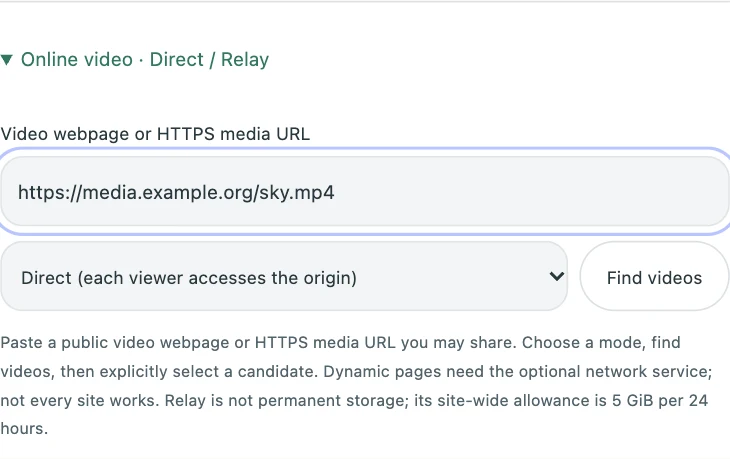
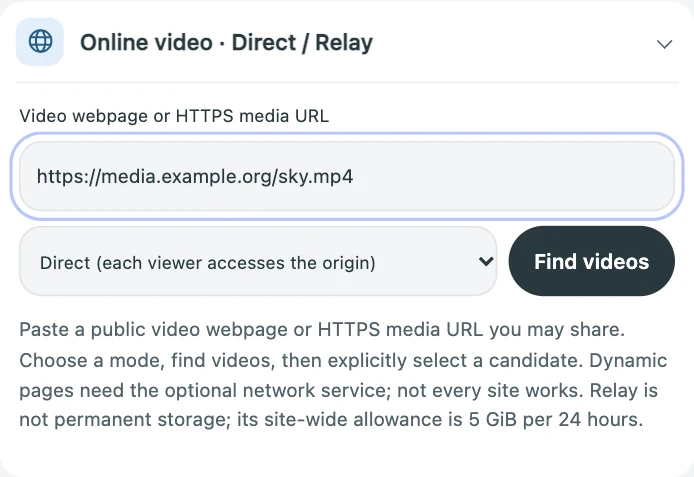
Refresh bilingual Pages screenshots for library tools, upload ETA and voice

diff --git a/docs/site/site.css b/docs/site/site.css
@@ -115,3 +115,12 @@ footer {background:white;text-align:center}footer nav {margin:1.2rem 0 2rem}foot
   .reading aside {max-height:none}
   .chapters section,.reading aside {scroll-margin-top:7rem}
 }
+
+/* Two real UI close-ups belong to the library chapter, not a separate step. */
+.tool-shots {grid-column:1/-1;display:grid;grid-template-columns:repeat(2,minmax(0,1fr));gap:1rem}
+.tool-shots figure {min-width:0;display:flex;flex-direction:column;align-items:start;padding:clamp(1rem,2.8vw,2rem);gap:1rem;background:var(--silver);border-radius:1.5rem}
+.tool-shots strong {font-size:1.15rem;color:var(--ink)}
+.tool-shots p {margin-top:.35rem;color:var(--muted)}
+.tool-shots a {display:block;width:100%;margin-top:auto}
+.tool-shots img {width:100%;height:auto;border:1px solid var(--line);border-radius:.9rem}
+@media(max-width:740px){.tool-shots {grid-template-columns:minmax(0,1fr)}}

diff --git a/scripts/capture_site_shots.py b/scripts/capture_site_shots.py
@@ -1,0 +1,85 @@
+"""Rephotograph Pages in an isolated demo: python -m scripts.capture_site_shots.
+
+Requires ffmpeg, cwebp, Chrome, Playwright and the application's Python deps.
+"""
+import asyncio
+from pathlib import Path
+import re
+import struct
+import subprocess
+import tempfile
+
+from aiohttp.test_utils import TestServer
+from playwright.async_api import async_playwright, expect
+
+from cinema.server import create_app
+
+
+OUT = Path(__file__).resolve().parents[1] / 'docs/site/shots'
+
+
+async def capture(browser, lang, root):
+    media = root / 'data'
+    app = create_app(media, 'local-shots-only', secure=False)
+    for title, color in [('Cloud Atlas', 'skyblue'), ('After the Rain', 'teal')]:
+        subprocess.run(['ffmpeg', '-v', 'error', '-f', 'lavfi', '-i', f'color=c={color}:s=320x180',
+                        '-t', '2', '-c:v', 'libx264', str(media / 'media' / (title + '.mp4'))], check=True)
+    demo = root / 'Sky study.mp4'
+    demo.write_bytes((media / 'media/Cloud Atlas.mp4').read_bytes())
+    with demo.open('ab') as fp:
+        size = 12 * 1024**2
+        fp.write(struct.pack('>I4s', size, b'free') + bytes(size - 8))
+    async with TestServer(app) as server:
+        ctx = await browser.new_context(locale=lang, viewport={'width':540, 'height':1050},
+                                        device_scale_factor=1.6, reduced_motion='reduce')
+        try:
+            await ctx.add_init_script("if (!localStorage.getItem('together-cinema.appearance')) localStorage.setItem('together-cinema.appearance','day')")
+            p = await ctx.new_page()
+            async def snap(key, selector):
+                png = root / (key + '.png')
+                await p.locator(selector).screenshot(path=png, animations='disabled')
+                subprocess.run(['cwebp', '-quiet', '-q', '88', str(png), '-o', str(OUT / f'{lang}-{key}.webp')],check=True)
+            await p.goto(str(server.make_url('/?room=SKY01')))
+            await expect(p.locator('#connection')).to_contain_text('Host' if lang=='en' else '房主')
+            await p.locator('[data-tab=library]').click()
+            await expect(p.locator('#library')).to_contain_text('After the Rain')
+            await snap('library', '#tab-library')
+            await p.locator('.network-video summary').click()
+            await p.locator('#networkUrl').fill('https://media.example.org/sky.mp4')
+            for mode in ('direct', 'relay'):
+                await p.locator('#networkMode').select_option(mode)
+                await p.locator('#networkMode').blur()
+                await snap(mode, '.network-video')
+            await p.locator('.network-video summary').click()
+            await p.locator('.library-upload summary').click()
+            await p.locator('#file').set_input_files(demo)
+            cdp = await ctx.new_cdp_session(p)
+            await cdp.send('Network.enable')
+            await cdp.send('Network.emulateNetworkConditions', {'offline':False, 'latency':20,
+                           'downloadThroughput':10*1024**2, 'uploadThroughput':1024**2})
+            await p.locator('#upload').click()
+            await expect(p.locator('#uploadStatus')).to_have_text(re.compile(r'\d\d:\d\d:\d\d'), timeout=30000)
+            await snap('upload', '.library-upload')
+            await expect(p.locator('#uploadStatus')).to_contain_text('Upload complete' if lang=='en' else '并行上传完成',timeout=60000)
+            await p.evaluate("localStorage.setItem('together-cinema.appearance','night')")
+            await p.reload()
+            await p.locator('.voice-settings summary').click()
+            await expect(p.locator('html')).to_have_attribute('data-appearance','night')
+            await snap('voice', '.voice-dock')  # Never joins the call or opens a microphone.
+        finally:
+            await ctx.close()
+
+
+async def main():
+    async with async_playwright() as pw:
+        browser = await pw.chromium.launch(channel='chrome')
+        try:
+            for lang in ('en','zh-CN'):
+                with tempfile.TemporaryDirectory() as tmp:
+                    await capture(browser, lang, Path(tmp))
+        finally:
+            await browser.close()
+
+
+if __name__ == '__main__':
+    asyncio.run(main())

diff --git a/tests/test_project_site.py b/tests/test_project_site.py
@@ -33,14 +33,14 @@ class ProjectSiteTest(unittest.TestCase):
                               'deploy/zh-CN.html', 'deploy/en.html', 'assets/site.css', 'assets/v1-sky-desktop.webp',
                               'assets/v1-sky-mobile.webp',
                               *(f'assets/{lang}-{shot}.webp' for lang in ('en','zh-CN')
-                                for shot in ('entry','library','direct','relay'))})
+                                for shot in ('entry','library','direct','relay','upload','voice'))})
             for lang, page in [('en', root / 'index.html'), ('zh-CN', root / 'zh-CN/index.html')]:
                 urls = Links(page).urls
                 for chapter in ('#invitation', '#programme', '#routes'):
                     self.assertIn(chapter, urls)
                 pictures = {Path(url).name for url in urls if url.endswith('.webp')}
                 self.assertEqual(pictures, {'v1-sky-desktop.webp', 'v1-sky-mobile.webp',
-                                            *(f'{lang}-{s}.webp' for s in ('entry', 'library', 'direct', 'relay'))})
+                                            *(f'{lang}-{s}.webp' for s in ('entry', 'library', 'direct', 'relay', 'upload', 'voice'))})
             for doc in root.rglob('*.html'):
                 for raw in Links(doc).urls:
                     with self.subTest(doc=doc.relative_to(root), link=raw):

diff --git a/docs/site/build.py b/docs/site/build.py
@@ -11,7 +11,7 @@ ROOT = HERE.parents[1]
 REPO = "https://github.com/liu-qingyuan/together-cinema"
 COPY = json.loads((HERE / "copy.json").read_text())
 SKY = ("v1-sky-mobile.webp", "v1-sky-desktop.webp")
-SHOTS = ("entry", "library", "direct", "relay")
+SHOTS = ("entry", "library", "direct", "relay", "upload", "voice")
 
 
 def template(name):

diff --git a/docs/features/gallery.md b/docs/features/gallery.md
@@ -56,7 +56,7 @@
 
 放映室在 1360 CSS 像素及以下使用两行顶部：房号与在线状态在首行，复制邀请与具名「房间操作／Room actions」入口在次行。切换房间和退出共用原按钮与 handler，移入菜单；退出以分隔线和警示色区分，移动主要按钮至少 44 × 44 CSS 像素。菜单支持触摸、Enter／Space、Tab／Shift+Tab、Escape、外部点击及焦点离开收起；取消或关闭房间对话框后焦点返回入口。回到桌面断点时恢复既有平铺操作与主导航，不更改房间权限、邀请格式或同步协议。横屏给首屏标题额外留白。`scripts/mobile_header_smoke.py` 用临时应用、合成房间与真实中英文，检查 320／390 竖屏、844 横屏和 1440 桌面布局、剪贴板邀请、实际切房与退出；前后对照及限制见 `docs/mobile-header-acceptance.md`。
 
-公开观众指南位于 `/help/zh-CN.html` 和 `/help/en.html`，无需入房或会话、无脚本，两页可互链并独立分享，指南语言不写放映室偏好。展厅入房卡与放映室片库的帮助入口按本机界面语言指向对应页面，在新标签页打开，不重载播放器或连接。帮助页随镜像交付，按白名单公开读取且不缓存 HTML；中英文 README 的页首直达 GitHub Pages 双语项目站和对应语言的观众指南。项目站以放映室天空图作全屏封面，窄屏使用竖裁图；下滑的快捷入口可直达入房、选片及直连／中转对比。主介绍页用系统无衬线字体、白色和银灰底展示真实截图；截图随页面语言，窄屏顺序排版。仅宽屏且未要求减少动态时让导航段滚过封面，不接管滚轮。公开观众指南复用随站指南的章节；它与部署教程和项目首页共享导航、语言入口及样式，可在站内完成首次观看或搭建流程。Pages 不提供公共放映室。
+公开观众指南位于 `/help/zh-CN.html` 和 `/help/en.html`，无需入房或会话、无脚本，两页可互链并独立分享，指南语言不写放映室偏好。展厅入房卡与放映室片库的帮助入口按本机界面语言指向对应页面，在新标签页打开，不重载播放器或连接。帮助页随镜像交付，按白名单公开读取且不缓存 HTML；中英文 README 的页首直达 GitHub Pages 双语项目站和对应语言的观众指南。项目站以放映室天空图作全屏封面，窄屏使用竖裁图；下滑的快捷入口可直达入房、选片及直连／中转对比。片库工具、直连、中转、上传剩余时间与夜间语音设置使用各语言自己的本地演示截图；两份 README 复用对应片库图。主介绍页用系统无衬线字体、白色和银灰底展示真实截图；截图随页面语言，窄屏顺序排版。仅宽屏且未要求减少动态时让导航段滚过封面，不接管滚轮。公开观众指南复用随站指南的章节；它与部署教程和项目首页共享导航、语言入口及样式，可在站内完成首次观看或搭建流程。Pages 不提供公共放映室。
 
 指南包含建房、邀请、房主控制、片库、自有双视频网页中明确选第二段的流程；区分直连的各自原站媒体请求与中转的本站媒体请求，说明 HLS 入口清单、流量、默认全站额度与并发、临时片源、可选动态解析、无候选／过期／额度不足的下一步。不绕过访问控制，不索取第三方凭据；注明 VideoTogether 的交互思想参考而非其兼容范围。网络表单使用通用网页／HTTPS 媒体文案，解析和候选保持原协议；可选解析服务连接失败也返回已有稳定错误标识与本机语言的操作提示，不再落入通用 500。
 

diff --git a/docs/site/shots/README.md b/docs/site/shots/README.md
@@ -1,10 +1,13 @@
-These eight WebP images are screenshots of the real Together Cinema UI, not mockups.
-They were taken in an isolated local room (SKY01) in day mode, once with English
-and once with Simplified Chinese. The two short library clips were generated
-locally. The media.example.org URL is an unsubmitted example, not a live source.
+# Viewer interface screenshots
 
-To refresh, capture the gallery entry card, the room’s Library panel, and the
-expanded online-video panel once per selected route (Direct and Relay).
-Use a temporary media directory and room; never photograph production rooms,
-invitations, or a personal library. Leave the corresponding descriptive alt text
-in both translations. The publisher copies only the explicitly listed WebPs.
+The twelve WebPs are photographs of the running UI (six per language).
+The existing entry card is unchanged. Library, Direct and Relay show the
+grouped tool cards; Upload shows a real, throttled local demo transfer and its
+ETA. Voice shows the night-mode controls, without joining a call.
+
+To refresh the changed panels, run `python -m scripts.capture_site_shots` from
+the repository root with the app dependencies, Chrome, Playwright, ffmpeg and
+cwebp installed. It uses a fresh local server and temporary media directory per
+language, not a production library. The files, room code and unsubmitted
+media.example.org URL are demo content. Upload speed/ETA are examples, not a
+speed guarantee. Each homepage links its own language’s full-size images.

diff --git a/README.md b/README.md
@@ -24,9 +24,11 @@ One friend paused the film at 00:13; both screens stopped on the same frame. [De
 
 | Enter a room | Choose a film beside the player |
 | --- | --- |
-| [![Room-code entry beneath a starry mountain sky](docs/showcase/entry.webp)](docs/showcase/entry.webp) | [![The shared library alongside the player](docs/showcase/library.webp)](docs/showcase/library.webp) |
+| [![Room-code entry beneath a starry mountain sky](docs/showcase/entry.webp)](docs/showcase/entry.webp) | [![Shared library and the new Library tools card](docs/site/shots/en-library.webp)](docs/site/shots/en-library.webp) |
 | **Browse the screening journal** | **Choose your personal scenery** |
 | [![Filmstrip of built-in sample titles and dates](docs/showcase/journal.webp)](docs/showcase/journal.webp) | [![Cherry-blossom scene in the personal gallery](docs/showcase/scenes.webp)](docs/showcase/scenes.webp) |
+
+[Upload progress and voice settings: see the screenshots](https://liu-qingyuan.github.io/together-cinema/#room-tools).
 
 [Full screenshot tour and artwork credits (Chinese, with English scene headings) →](docs/showcase/README.md). Journal titles and dates in that empty-room capture are explicitly built-in examples, not real viewing history.
 

diff --git a/README.zh-CN.md b/README.zh-CN.md
@@ -24,9 +24,11 @@
 
 | 入房：输入房间码，和朋友会合 | 选片：片库就在播放器旁边 |
 | --- | --- |
-| [![雪山银河展厅与入房表单](docs/showcase/entry.webp)](docs/showcase/entry.webp) | [![房主在播放器右侧查看共享片库](docs/showcase/library.webp)](docs/showcase/library.webp) |
+| [![雪山银河展厅与入房表单](docs/showcase/entry.webp)](docs/showcase/entry.webp) | [![共享片库与新版片库工具卡](docs/site/shots/zh-CN-library.webp)](docs/site/shots/zh-CN-library.webp) |
 | **陪伴：沿着胶片翻看放映记录** | **风景：换一幅只属于自己的背景** |
 | [![带日期的黑白胶片手记，此处为内置示例](docs/showcase/journal.webp)](docs/showcase/journal.webp) | [![私人风景选集中的樱花小径](docs/showcase/scenes.webp)](docs/showcase/scenes.webp) |
+
+[看实拍：上传剩余时间与房间语音设置](https://liu-qingyuan.github.io/together-cinema/zh-CN/#room-tools)。
 
 [继续看：开场大图、房间成员、夜间字幕设置与素材署名 →](docs/showcase/README.md)
 
